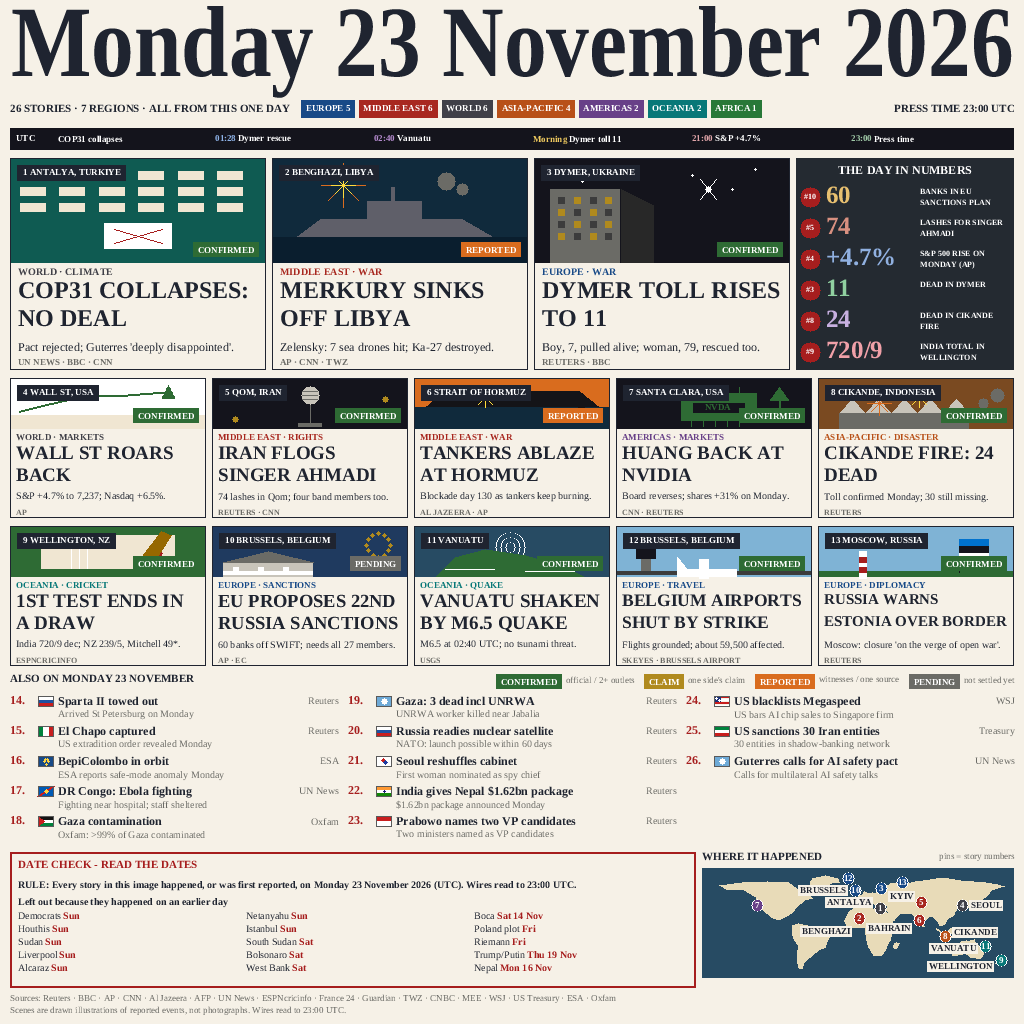
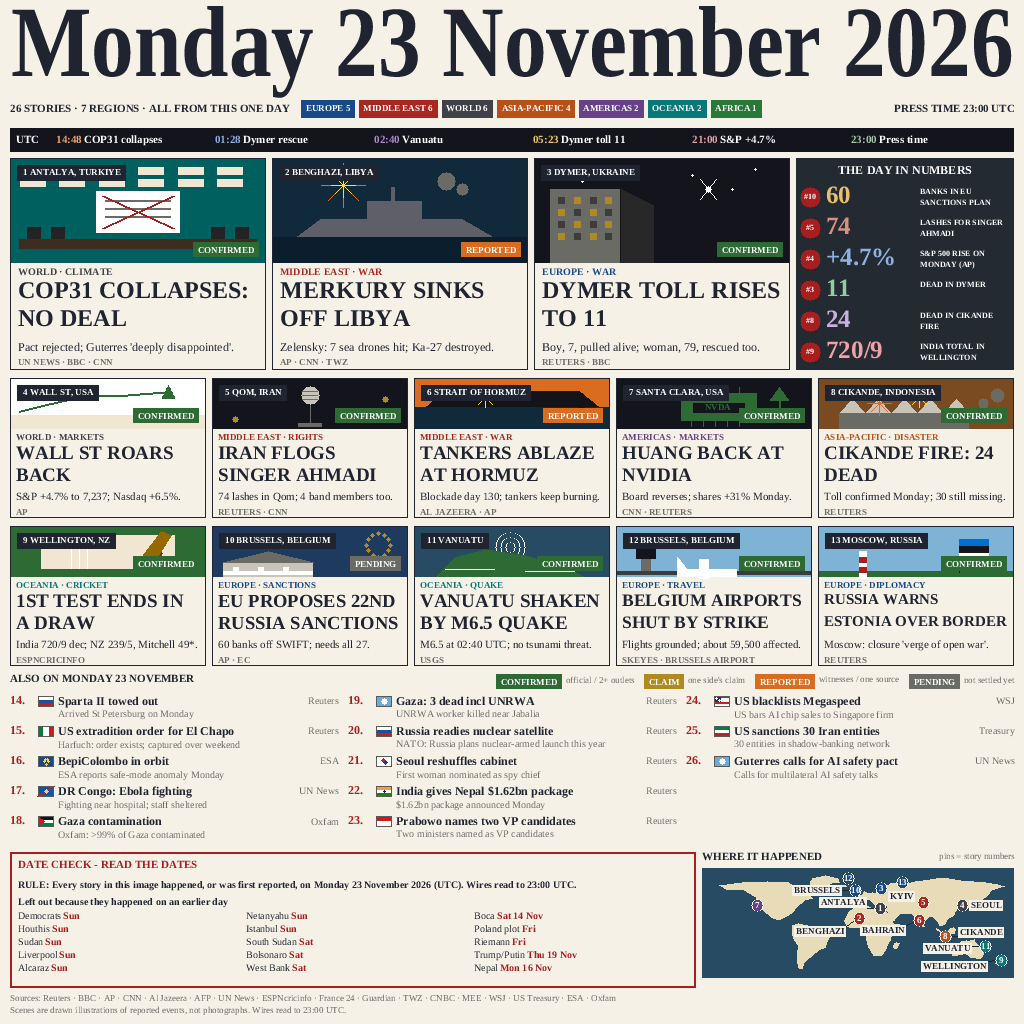
v10: pre-submit fixes — El Chapo rename, definite timeline hours, 11px decks, map leader lines, clearer COP31 scene

diff --git a/main.py b/main.py
@@ -113,6 +113,9 @@ TIME_LAV = (178, 137, 203)
 TIME_GOLD = (238, 201, 95)
 TIME_PINK = (223, 164, 168)
 TIME_GREEN = (159, 200, 166)
+# v10: COP31's 14:48 is the IPS first-filing time (see V10-SOURCES.md
+# §1b) — a distinct pastel orange so it reads as its own event.
+TIME_ORANGE = (240, 170, 110)
 
 REGION_COLORS = [
     ("EUROPE", REG_BLUE),
@@ -929,9 +932,13 @@ LAND_POLYS = [NA, GREENLAND, SA, AFRICA, EURASIA, UK, JAPAN, AUSTRALIA, NZ,
 # (story number, lon, lat, label or None, label side: 1 right, -1 left,
 #  optional label dy: extra downward offset of the label top, px)
 # v7: pins follow the new pictured set (renumbered). Tuple:
-# (story, lon, lat, label or None, label side, label dy, pin dx, pin dy).
-# dx/dy nudge a pin in screen px where the coarse map would stack two
-# discs — every pair is now >=13px apart (measured, see EVALUATION.md).
+# (story, lon, lat, label or None, label side, label dy, pin dx, pin dy,
+#  label gap). dx/dy nudge a pin in screen px where the coarse map would
+# stack two discs — every pair is now >=13px apart (measured, see
+# EVALUATION.md). label gap (v10) pushes a label a few px further from
+# its pin so a thin leader line can connect them (see draw_map); KYIV
+# and SEOUL have gap 0 (KYIV is boxed in by pins 5/13, SEOUL would run
+# past the map's right edge).
 # v8: Pacific labels separated by dy, not by stacking: VANUATU sits at
 # pin height (dy +2, rect y 933-944) and WELLINGTON 6px lower (dy +6,
 # rect y 951-962) — 7px clear of each other, 1px clear of Cikande's
@@ -944,17 +951,17 @@ LAND_POLYS = [NA, GREENLAND, SA, AFRICA, EURASIA, UK, JAPAN, AUSTRALIA, NZ,
 # into the Atlantic so it does not sit on pin 10. Old pins for the 5
 # demoted stories are gone.
 MAP_PINS = [
-    (1, 31.0, 37.5, "ANTALYA", -1, -6, -3, 3),
-    (2, 18.0, 33.0, "BENGHAZI", -1, 13, -13, 10),
+    (1, 31.0, 37.5, "ANTALYA", -1, -6, -3, 3, 6),
+    (2, 18.0, 33.0, "BENGHAZI", -1, 13, -13, 10, 6),
     (3, 30.5, 50.5, "KYIV", 1, 8, -2, -8),
     (4, 126.5, 37.0, "SEOUL", 1, 0, 0, 0),
-    (5, 50.9, 34.6, None, 1, 0, 22, -5),
-    (6, 52.5, 27.5, "BAHRAIN", -1, 8, 18, 8),
+    (5, 50.9, 34.6, None, 1, 0, 24, -5),
+    (6, 52.5, 27.5, "BAHRAIN", -1, 10, 18, 8, 6),
     (7, -122.0, 37.4, None, 1, 0, 0, 0),
-    (8, 106.5, -7.0, "CIKANDE", 1, -4, 0, 0),
-    (9, 174.5, -41.0, "WELLINGTON", -1, 6, 0, 0),
-    (10, 4.35, 50.85, "BRUSSELS", -1, 0, -6, -6),
-    (11, 167.0, -16.0, "VANUATU", -1, 2, -10, 3),
+    (8, 106.5, -7.0, "CIKANDE", 1, -4, 0, 0, 6),
+    (9, 174.5, -41.0, "WELLINGTON", -1, 6, 0, 0, 6),
+    (10, 4.35, 50.85, "BRUSSELS", -1, 0, -6, -6, 6),
+    (11, 167.0, -16.0, "VANUATU", -1, 2, -10, 3, 6),
     (12, 4.35, 50.85, None, 1, 0, -13, -18),
     (13, 37.6, 55.75, None, 1, 0, 14, -10),
 ]
@@ -977,6 +984,7 @@ def draw_map(cv, x, y, w, h):
         dy = rest[0] if len(rest) > 0 else 0
         dx = rest[1] if len(rest) > 1 else 0
         dy2 = rest[2] if len(rest) > 2 else 0
+        gap = rest[3] if len(rest) > 3 else 0
         px, py = _lonlat(x, y, w, h, lon, lat)
         px += dx
         py += dy2
@@ -987,9 +995,28 @@ def draw_map(cv, x, y, w, h):
         s = str(num)
         draw_text(cv, px - int(text_w(s, 9, bold=True)) // 2, py - 3, s, 9, WHITE, bold=True)
         if label:
-            lx = px + 9 if side > 0 else px - 9 - int(text_w(label, 9, bold=True))
+            tw = int(text_w(label, 9, bold=True))
+            # v10: the label sits `gap` px further from its pin (Ban:
+            # tidy the Brussels/Antalya/Kyiv and Wellington/Vanuatu
+            # labels with leader lines). KYIV and SEOUL get gap 0 —
+            # KYIV is boxed in by pins 5/13, SEOUL would run past the
+            # map's right edge.
+            lx = px + 9 + gap if side > 0 else px - 9 - tw - gap
             ly = py - 3 + dy
-            cv.fill_rect(lx - 2, ly - 2, int(text_w(label, 9, bold=True)) + 4, 11, PAPER)
+            # thin leader line (garis penunjuk) from the pin disc to
+            # the label rect — only where the gap exceeds the disc edge
+            # by >2px; drawn before the label rect so the rect covers
+            # the line end.
+            rx0, ry0, rx1, ry1 = lx - 2, ly - 2, lx + tw + 2, ly + 9
+            nx = min(max(px, rx0), rx1)
+            ny = min(max(py, ry0), ry1)
+            ddx, ddy = nx - px, ny - py
+            dd = (ddx * ddx + ddy * ddy) ** 0.5
+            if dd > 8:
+                ux, uy = ddx / dd, ddy / dd
+                cv.line(int(px + 7 * ux), int(py + 7 * uy),
+                        int(nx), int(ny), INK)
+            cv.fill_rect(lx - 2, ly - 2, tw + 4, 11, PAPER)
             draw_text(cv, lx, ly, label, 9, INK, bold=True)
 
 
@@ -1084,14 +1111,30 @@ def scene(cv, x, y, w, h, kind):
     def X(v):
         return x + int(v * w / 322)
     if kind == "cop31":
-        cv.fill_rect(x, y, w, h, TEAL)
-        for row in range(3):
+        # v10: redrawn to read at a glance — darker teal hall, 2 rows
+        # of bright windows, a big ruled document with a BOLD red X
+        # (the rejected pact), a long table with delegate silhouettes
+        # at the sides. (v9's version was a small crossed-out doc that
+        # read as a generic building.)
+        cv.fill_rect(x, y, w, h, (0, 96, 96))
+        for row in range(2):
             for col in range(6):
-                cv.fill_rect(X(12 + col * 50), y + 12 + row * 16,
-                             int(34 * w / 322), 9, CREAM)
-        cv.fill_rect(x + w // 2 - 34, y + h - 40, 68, 26, WHITE)
-        cv.line(x + w // 2 - 24, y + h - 34, x + w // 2 + 24, y + h - 20, RED)
-        cv.line(x + w // 2 - 24, y + h - 20, x + w // 2 + 24, y + h - 34, RED)
+                cv.fill_rect(X(12 + col * 50), y + 8 + row * 12,
+                             int(34 * w / 322), 8, CREAM)
+        # long conference table + delegate silhouettes at the sides
+        cv.fill_rect(x + 8, y + h - 24, w - 16, 10, (60, 45, 30))
+        for sx in (16, 40, w - 54, w - 30):
+            cv.fill_rect(x + sx, y + h - 36, 14, 12, (35, 35, 35))
+        # big white document, ruled lines, bold red X (3 strokes each way)
+        dw, dh = 84, 42
+        dx0 = x + w // 2 - dw // 2
+        dy0 = y + 32
+        cv.fill_rect(dx0, dy0, dw, dh, WHITE)
+        for rl in range(3):
+            cv.fill_rect(dx0 + 9, dy0 + 9 + rl * 8, dw - 18, 2, GREY)
+        for off in (-1, 0, 1):
+            cv.line(dx0 + 7 + off, dy0 + 5, dx0 + dw - 7 + off, dy0 + dh - 5, RED)
+            cv.line(dx0 + 7 + off, dy0 + dh - 5, dx0 + dw - 7 + off, dy0 + 5, RED)
     elif kind == "dymer":
         cv.fill_rect(x, y, w, h, DARK)
         for sx, sy in ((14, 10), (60, 22), (120, 8), (200, 16), (280, 10), (250, 30)):
@@ -1279,17 +1322,23 @@ MASTHEAD = "Monday 23 November 2026"
 SUBHEAD = "COP31 collapses \u2014 no deal \u00b7 Merkury sunk off Libya \u00b7 Dymer toll rises to 11"
 TOPLINE = "THE WORLD IN ONE DAY \u00b7 26 STORIES \u00b7 7 REGIONS \u00b7 PRESS TIME 23:00 UTC \u00b7 EVERY STORY DATED MONDAY 23 NOVEMBER 2026"
 
-# Timeline: verified times only (see STORY-LIST.md). (minutes from 00:00 UTC,
-# label, label above the bar?, time-word colour) "MORNING" = verified morning,
-# exact hour approximate (~07:23 Kyiv local). The first event has no verified
-# time, so its label starts with a space: no time word, all-white text.
+# Timeline: verified times only (see STORY-LIST.md, V10-SOURCES.md §1).
+# (minutes from 00:00 UTC, label, label above the bar?, time-word
+# colour). v10: "Morning" is now the definite "05:23" (Dymer toll 11:
+# Tkachenko Telegram 07:23 Kyiv local = 05:23 UTC, corroborated by the
+# Reuters wire timestamped 06:24 UTC already carrying "kills 11"); the
+# same chronology confirms the 01:28 UTC rescue. COP31 gets "14:48" —
+# the IPS first-filing time (14:48:44 UTC Sun); HONEST CAVEAT: no exact
+# plenary hour was established (Guardian "Sunday afternoon", AP "ended
+# Sunday night"), so 14:48 is the first-report time, NOT the plenary
+# time — do not present it as the plenary hour.
 # v9: black bar, bright per-event time colours sampled from #2's UTC bar
 # (light blue, lavender, gold, pink, green pastels on black).
 TIMELINE = [
-    (0, " COP31 collapses", True, WHITE),
+    (888, "14:48 COP31 collapses", True, TIME_ORANGE),
     (88, "01:28 Dymer rescue", False, TIME_BLUE),
     (160, "02:40 Vanuatu", True, TIME_LAV),
-    (323, "Morning Dymer toll 11", False, TIME_GOLD),
+    (323, "05:23 Dymer toll 11", False, TIME_GOLD),
     (1260, "21:00 S&P +4.7%", True, TIME_PINK),
     (1380, "23:00 Press time", False, TIME_GREEN),
 ]
@@ -1327,15 +1376,15 @@ SMALL = [
      "src": "AP"},
     {"n": 5, "badge": "CONFIRMED", "scene": "ahmadi",
      "head": "IRAN FLOGS SINGER AHMADI",
-     "deck": "74 lashes in Qom; four band members too.",
+     "deck": "74 lashes in Qom; 4 band members too.",
      "src": "REUTERS \u00b7 CNN"},
     {"n": 6, "badge": "REPORTED", "scene": "hormuz",
      "head": "TANKERS ABLAZE AT HORMUZ",
-     "deck": "Blockade day 130 as tankers keep burning.",
+     "deck": "Blockade day 130; tankers keep burning.",
      "src": "AL JAZEERA \u00b7 AP"},
     {"n": 7, "badge": "CONFIRMED", "scene": "nvidia",
      "head": "HUANG BACK AT NVIDIA",
-     "deck": "Board reverses; shares +31% on Monday.",
+     "deck": "Board reverses; shares +31% Monday.",
      "src": "CNN \u00b7 REUTERS"},
     {"n": 8, "badge": "CONFIRMED", "scene": "cikande",
      "head": "CIKANDE FIRE: 24 DEAD",
@@ -1347,7 +1396,7 @@ SMALL = [
      "src": "ESPNCRICINFO"},
     {"n": 10, "badge": "PENDING", "scene": "eusanctions",
      "head": "EU PROPOSES 22ND RUSSIA SANCTIONS",
-     "deck": "60 banks off SWIFT; needs all 27 members.",
+     "deck": "60 banks off SWIFT; needs all 27.",
      "src": "AP \u00b7 EC"},
     {"n": 11, "badge": "CONFIRMED", "scene": "vanuatu",
      "head": "VANUATU SHAKEN BY M6.5 QUAKE",
@@ -1359,7 +1408,7 @@ SMALL = [
      "src": "SKEYES \u00b7 BRUSSELS AIRPORT"},
     {"n": 13, "badge": "CONFIRMED", "scene": "estonia",
      "head": "RUSSIA WARNS ESTONIA OVER BORDER",
-     "deck": "Moscow: closure 'on the verge of open war'.",
+     "deck": "Moscow: closure 'verge of open war'.",
      "src": "REUTERS"},
 ]
 
@@ -1370,12 +1419,19 @@ ALSO = [
     # description, source, self-made flag code). No badge chips on rows
     # (per #2's system; the badge legend stays in the header).
     (14, "Sparta II towed out", "Arrived St Petersburg on Monday", "Reuters", "RU"),
-    (15, "El Chapo captured", "US extradition order revealed Monday", "Reuters", "MX"),
+    # v10: renamed to the Monday news (Reuters headline, opened live:
+    # "US extradition order exists for arrested Mexican drug lord 'El
+    # Chapo Isidro'"). The capture was Fri night; the Monday story is
+    # the extradition order. Description follows the Reuters wording.
+    (15, "US extradition order for El Chapo", "Harfuch: order exists; captured over weekend", "Reuters", "MX"),
     (16, "BepiColombo in orbit", "ESA reports safe-mode anomaly Monday", "ESA", "EU"),
     (17, "DR Congo: Ebola fighting", "Fighting near hospital; staff sheltered", "UN News", "CD"),
     (18, "Gaza contamination", "Oxfam: >99% of Gaza contaminated", "Oxfam", "PS"),
     (19, "Gaza: 3 dead incl UNRWA", "UNRWA worker killed near Jabalia", "Reuters", "UN"),
-    (20, "Russia readies nuclear satellite", "NATO: launch possible within 60 days", "Reuters", "RU"),
+    # v10: description reworded to the confirmed core — the "60 days"
+    # line was in the German-media report per V8 but NOT in the visible
+    # excerpt of the opened Reuters article (see V10-SOURCES.md §5).
+    (20, "Russia readies nuclear satellite", "NATO: Russia plans nuclear-armed launch this year", "Reuters", "RU"),
     (21, "Seoul reshuffles cabinet", "First woman nominated as spy chief", "Reuters", "KR"),
     (22, "India gives Nepal $1.62bn package", "$1.62bn package announced Monday", "Reuters", "IN"),
     (23, "Prabowo names two VP candidates", "Two ministers named as VP candidates", "Reuters", "ID"),
@@ -1447,15 +1503,17 @@ REGION_OF = {
 #   MASTHEAD 5 (Liberation Bold 101px, xscale 0.845, ~1003px wide,
 #     66px cap, full-bleed like #2's 1000px; ink to ~93)
 #   KICKER 100-122 (11px text + region-count chips + PRESS TIME right)
-#   TIMELINE 128-150 (22px BLACK bar, bright per-event time colours
-#     sampled from #2's UTC bar + white labels; v9: Ban)
+#   TIMELINE 128-152 (24px BLACK bar, bright per-event time colours
+#     sampled from #2's UTC bar + white labels; v10: 11px type, all six
+#     events have definite UTC hours — 14:48 is the IPS first-filing
+#     time, not the plenary hour)
 #   LEAD CARDS 158-370 (212; scene 104; cat 10px region colour; head
 #     24px 2 lines; deck 12px 1 line; src 9px) | STAT PANEL 158-370
 #     (218 wide, dark, header 12px, 6 rows x 31px: 25px number in its
 #     own pastel colour + white 8px label, story chip disc r10 "#n")
 #   SMALL CARDS 378-518, 526-666 (140; scene 50; cat 9px region colour;
-#     head 19px 2 lines (auto-shrink for long heads); deck 10px 1 line;
-#     src 8px)
+#     head 19px 2 lines (auto-shrink for long heads); deck 11px 1 line;
+#     src 9px)
 #   ALSO header 674 | ALSO items 696-844 (3 cols x 5 rows, 30px pitch;
 #     v9: flag 16x11 + bold 12px title + 10px grey description, source
 #     right-aligned 10px; no badge chips on rows) | DATE CHECK (686) +
@@ -1498,21 +1556,23 @@ def build():
     draw_text(cv, W - mx - int(text_width(pt, 11, bold=True)), ky + 4,
               pt, 11, INK, bold=True)
 
-    # timeline bar: BLACK, 22px, bright per-event time colour + white
-    # label (v9: #2's system — soft pastel times on black; the first
-    # event has no verified time, so it stays all-white).
+    # timeline bar: BLACK, 24px (v10: grown from 22px for the bigger
+    # 11px type; the 2px come from the lead-card gap, still 6px), bright
+    # per-event time colour + white label (v9: #2's system — soft pastel
+    # times on black; v10: every event now has a definite UTC hour —
+    # 14:48 is the IPS first-filing time, see TIMELINE comment).
     bar_y = 128
-    cv.fill_rect(mx, bar_y, cw, 22, DARK)
-    draw_text(cv, mx + 6, bar_y + 7, "UTC", 9, WHITE, bold=True)
+    cv.fill_rect(mx, bar_y, cw, 24, DARK)
+    draw_text(cv, mx + 6, bar_y + 7, "UTC", 11, WHITE, bold=True)
     slot = (W - mx - 56) // 6
     for i, (mins, label, above, tcol) in enumerate(TIMELINE):
         gx = 56 + i * slot
-        # split "TIME rest" / "Morning rest" into coloured time + white
+        # split "TIME rest" into coloured time + white label.
         parts = label.split(" ", 1)
         t, rest = parts[0], parts[1] if len(parts) > 1 else ""
-        draw_text(cv, gx, bar_y + 7, t, 9, tcol, bold=True)
-        lx = gx + int(text_width(t + " ", 9, bold=True))
-        draw_text(cv, lx, bar_y + 7, rest, 9, WHITE, bold=True)
+        draw_text(cv, gx, bar_y + 7, t, 11, tcol, bold=True)
+        lx = gx + int(text_width(t + " ", 11, bold=True))
+        draw_text(cv, lx, bar_y + 7, rest, 11, WHITE, bold=True)
 
     # helper: location chip (top-left of art) + badge (bottom-right)
     def art_labels(ax, ay, aw, ah, n, badge_label):
@@ -1564,7 +1624,9 @@ def build():
     # 10 small cards, 2 rows x 5, 140 tall, scene 50. v9: head 19px
     # (measured: 7 of 10 fit 2 lines; the 3 longest auto-shrink via
     # block_fit, as in #2), deck ONE line 10px, category in the region
-    # colour.
+    # colour. v10: decks 10px -> 11px (the 4 that overflowed at 11px
+    # were shortened, facts kept — see SMALL; #7 shortened too, it sat
+    # exactly at the 184px limit), source lines 8px -> 9px.
     sw = 196
     sh = 140
     for row in range(2):
@@ -1580,9 +1642,9 @@ def build():
                       bold=True)
             _, nlines = block_fit(cv, bx + 6, by + 68, st["head"], 19, INK,
                                   sw - 12, 2, 22, bold=True)
-            block_fit(cv, bx + 6, by + 114, st["deck"], 10,
+            block_fit(cv, bx + 6, by + 114, st["deck"], 11,
                       INK, sw - 12, 1, 12)
-            draw_text(cv, bx + 6, by + sh - 9, st["src"], 8, GREY, bold=True)
+            draw_text(cv, bx + 6, by + sh - 9, st["src"], 9, GREY, bold=True)
 
     # also-list header + badge legend (like #2, same line)
     ay = 674
